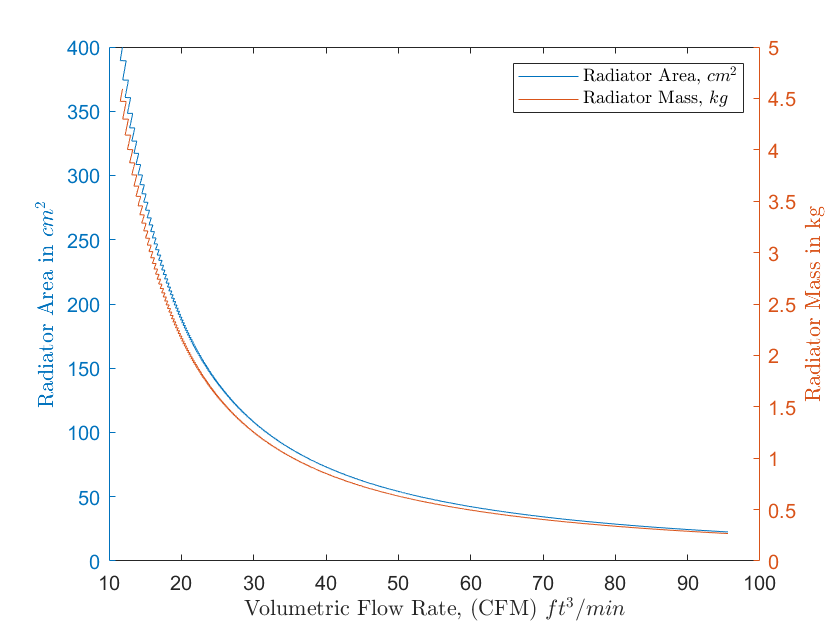
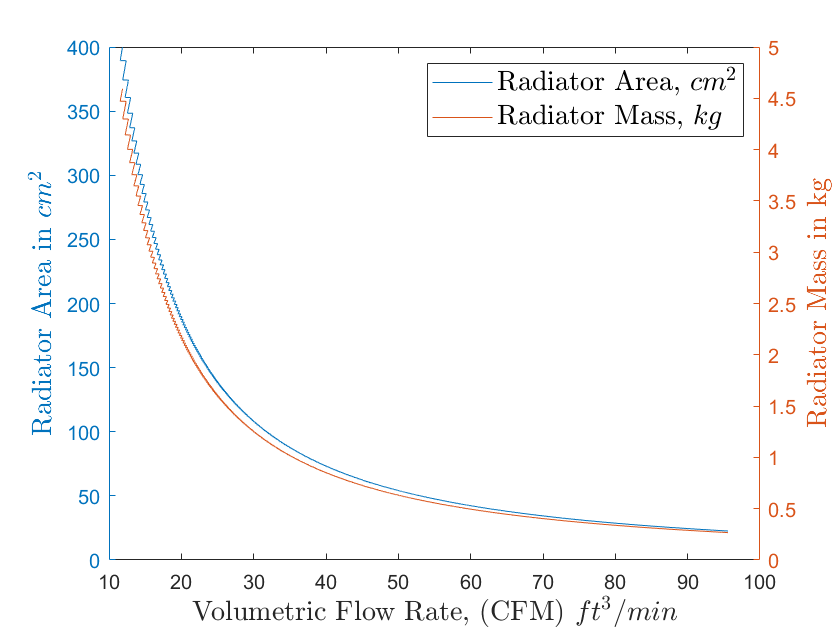
W2

diff --git a/radiatorSizingOptimisation.m b/radiatorSizingOptimisation.m
@@ -1,0 +1,104 @@
+%% IRG24 Cooling Systems:
+% Radiator Sizing Optimisation Code
+clear
+clc
+
+% load('radiatorParameters.mat')
+load('radiatorParametersv4.mat')
+
+% Attribute an array of potential radiator area values to iterate through
+radiatorArea = 1e-4:1e-5:0.04; 
+
+% Initialize results arrays
+optimal_u_air_array = zeros(size(radiatorArea));
+min_delta_q_array = zeros(size(radiatorArea));
+% Initialize parameters
+airspeedArray = 0:0.01:20;
+CFM = [];
+
+% Iterate over radiator area values
+for i = 1:length(radiatorArea)
+    current_area = radiatorArea(i);
+
+    % air.u_min = 0; % Starting lower bound for air velocity (m/s)
+    % air.u_max = 20; % Starting upper bound for air velocity (m/s)
+    error = 1e-3; % Tolerance for the minimisation
+    optimal_u_air = 0; % Placeholder for optimal air velocity
+    min_delta_q = motor.heat; % Placeholder for minimum delta_q
+    delta_q = [];
+    % Iterate to find the air velocity that minimizes delta_q
+    for j = 1:length(airspeedArray)
+        % Update air velocity
+        air.u = airspeedArray(j);
+        air.Re = air.rho * air.u * (current_area/(pi/4))^(1/2) / air.mu;
+        air.Nu = 0.0266 * air.Re^0.805 * air.Pr^(1/3);
+        air.h = air.Nu * air.k / fan.W_tube;
+
+        % Update overall heat transfer coefficient
+        U_total = ((1 / (eta_0 * air.h * current_area)) + (1 / (water.h * radiator.pipe.A_int)))^-1;
+
+        % Calculate NTU and effectiveness
+        NTU = U_total / C_r; % Number of transfer units
+        epsilon = 1 - exp(((1 / C_r) * NTU^0.22) * (exp(-C_r * NTU^0.78) - 1));
+        epsilon = 1 - exp(((1/C_r)*NTU^0.22)*(exp(-C_r*NTU^0.78)-1));
+
+        % Calculate heat transfer by radiator
+        q_radiator = epsilon * air.Cp * (water.deltaT);
+
+        % Calculate delta_q
+        delta_q(j) = q_radiator - motor.heat;
+
+        % Check if this is the minimal delta_q
+        if delta_q(j) > 0
+            min_delta_q = delta_q(j);
+            optimal_u_air = airspeedArray(j);
+            break
+        else
+            optimal_u_air = airspeedArray(j);
+            min_delta_q = delta_q(j);
+        end
+    end
+
+    % Store results for current area
+    optimal_u_air_array(i) = optimal_u_air;
+    min_delta_q_array(i) = min_delta_q;
+    CFM(i) = optimal_u_air_array(i)*current_area;
+    CFM(i) = CFM(i) * 2118.88; % Conversion
+end
+
+
+fanArea = radiatorArea;
+fanWeight = fanArea * fan.thickness * fan.rho *fan.weightRatio;
+
+radiatorWeight = (radiatorArea) * radiator.thickness * radiator.rho * eta_0;
+radiatorHeight = sqrt(radiatorArea/radiator.AR);
+radiatorWidth = radiator.AR * radiatorHeight;
+
+% Pipes
+radiator.pipe.weight = radiator.pipe.diameter * radiator.pipe.thickness * (2*radiatorWidth + radiatorHeight) * radiator.pipe.rho;
+waterWeight = ((radiator.pipe.diameter/2)^2)*pi * (2*radiatorWidth + radiatorHeight) * water.rho;
+
+radiatorAssembly_total_mass = waterWeight + radiator.pipe.weight + fanWeight + radiatorWeight;
+
+radiatorArea = radiatorArea * 100^2; % Conversion from m^2 to cm^2
+
+
+% Display the optimal air velocity for the first iteration
+disp(['Optimal air velocity for radiator area of 1e-4 m^2: ', num2str(optimal_u_air_array(1)), ' m/s']);
+disp(['Minimum delta_q for radiator area of 1e-4 m^2: ', num2str(min_delta_q_array(1)), ' W']);
+
+% Plotting graphs of CFM vs. Area and CFM vs. Mass
+figure(1)
+yyaxis left;
+plot(CFM(217:end),radiatorArea(217:end), "-", MarkerSize=12)
+xlabel("Volumetric Flow Rate, CFM $ft^3/min$", "Interpreter", "Latex", 'FontSize', 14)
+ylabel("Radiator Area in $cm^2$", "Interpreter", "Latex", 'FontSize', 14)
+axis auto
+
+yyaxis right;
+plot(CFM(217:end), radiatorAssembly_total_mass(217:end), "-", MarkerSize=12)
+xlabel("Volumetric Flow Rate, (CFM) $ft^3/min$", "Interpreter", "Latex", 'FontSize', 14)
+ylabel("Radiator Mass in kg", "Interpreter", "Latex", 'FontSize', 14)
+axis auto
+legend("Radiator Area, $cm^2$", "Radiator Mass, $kg$", "Interpreter", "Latex", 'FontSize', 14)
+

diff --git a/Cooling/optimiseSystem.m b/Cooling/optimiseSystem.m
@@ -1,0 +1,106 @@
+%% IRG24 Cooling Systems - System Configuration
+% Topology Optimisation Code
+
+% Run the optimization
+optimiseCoolingSystem();
+
+%%
+function optimiseCoolingSystem()
+    % Define constants
+    g = 9.81;
+    water.Cp = 4184; % (kJ/kgK)
+    water.rho = 997; % (kg/m^3)
+
+    % Define components
+    components = {
+        struct('name', 'Battery',   'Tin', 25, 'Tout', 45,  'eta', 0.95, 'power', 40, 'VdotMin', 3,  'VdotMax', 8); % Data given from Leo
+        struct('name', 'EMRAX228',  'Tin', 50,              'eta', 0.86, 'power', 28, 'VdotMin', 6,  'VdotMax', 15); % Max arbitrarily defined
+        struct('name', 'NOVA15',    'Tin', 40,              'eta', 0.9,  'power', 13, 'VdotMin', 7,  'VdotMax', 15); % Max arbitrarily defined
+        struct('name', 'BAMOCARD3', 'Tin', 65,              'eta', 0.9,  'power', 1,  'VdotMin', 6, 'VdotMax', 12); % Min arbitrarily defined
+    };
+
+    % Precompute heat and deltaT for each component
+    for i = 1:length(components)
+        components{i}.heat = components{i}.power * (1 - components{i}.eta);
+        components{i}.deltaT = @(Vdot) components{i}.heat / (water.rho * Vdot / 60000) / water.Cp;
+    end 
+
+    % Optimization setup
+    options = optimoptions('ga', 'Display', 'iter', 'UseParallel', true);
+    nVars = length(components) * 2; % For series/parallel and flow rates
+
+    % Genetic Algorithm for optimization
+    [x, fval] = ga(@(x) objective_function(x, components, water), nVars, [], [], [], [], [], [], @(x) constraints(x, components, water), options);
+
+    % Decode and display the optimal configuration
+    decode_solution(x, components);
+
+    function cost = objective_function(x, components, water)
+        % Basically its a customisable objective function. Using heat dissipation: 
+        cost = 0;
+        n = length(components);
+
+        for i = 1:n
+            Vdot = x(n + i);
+            if Vdot < components{i}.VdotMin || Vdot > components{i}.VdotMax
+                cost = inf;
+                return;
+            end
+            cost = cost + components{i}.heat;
+        end
+    end
+
+    function [c, ceq] = constraints(x, components, water)
+        n = length(components);
+        c = [];
+        ceq = [];
+
+        % Extract series/parallel configuration and flow rates
+        config = x(1:n) > 0.5; % If > 0.5, then series, otherwise parallel
+        Vdots = x(n + 1:end);
+
+        % Initialize temperatures
+        Tout_prev = water.Tin;
+
+        for i = 1:n
+            % Check temperature constraints
+            if config(i) % Series
+                Tin = Tout_prev;
+            else % Parallel
+                Tin = water.Tin;
+            end
+
+            if Tin > components{i}.Tin
+                c = [c; Tin - components{i}.Tin];
+            end
+
+            % Compute Tout
+            deltaT = components{i}.deltaT(Vdots(i));
+            Tout = Tin + deltaT;
+
+            % Update previous outlet temperature
+            if config(i)
+                Tout_prev = Tout;
+            end
+        end
+    end
+
+    function decode_solution(x, components)
+        n = length(components);
+        config = x(1:n) > 0.5;
+        Vdots = x(n + 1:end);
+
+        fprintf('Optimal Configuration:\n');
+        for i = 1:n
+            fprintf('%s - %s, Flow Rate: %.2f L/min\n', components{i}.name, ternary(config(i), 'Series', 'Parallel'), Vdots(i));
+        end
+    end
+
+    function result = ternary(cond, true_val, false_val)
+        if cond
+            result = true_val;
+        else
+            result = false_val;
+        end
+    end
+end

diff --git a/Cooling/radiator_heat_transfer_modelling_v4.m b/Cooling/radiator_heat_transfer_modelling_v4.m
@@ -10,7 +10,7 @@ fan = struct();
 radiator = struct();
 motor = struct();
 water = struct(); 
-g = 9.81;
+g = 9.81; 
 
 %% Air parameters: 
 % Assume air at 25°C:
@@ -63,7 +63,7 @@ air.h = air.Nu * air.k / fan.W_tube;
 
 %% Motor parameters: 
 % assumption: 6L/min of water at 50°C for a max 120°C motor temperature
-motor.continuous_power = 35 * 1000; % continous power % note: current battery pack has max 73kW
+motor.continuous_power = 35 * 1000; % continous power % note: current battery pack has max 75kW
 motor.efficiency = 0.86; 
 motor.heat = (1 - motor.efficiency) * motor.continuous_power; % W, assuming all wasted energy goes into heat
 
